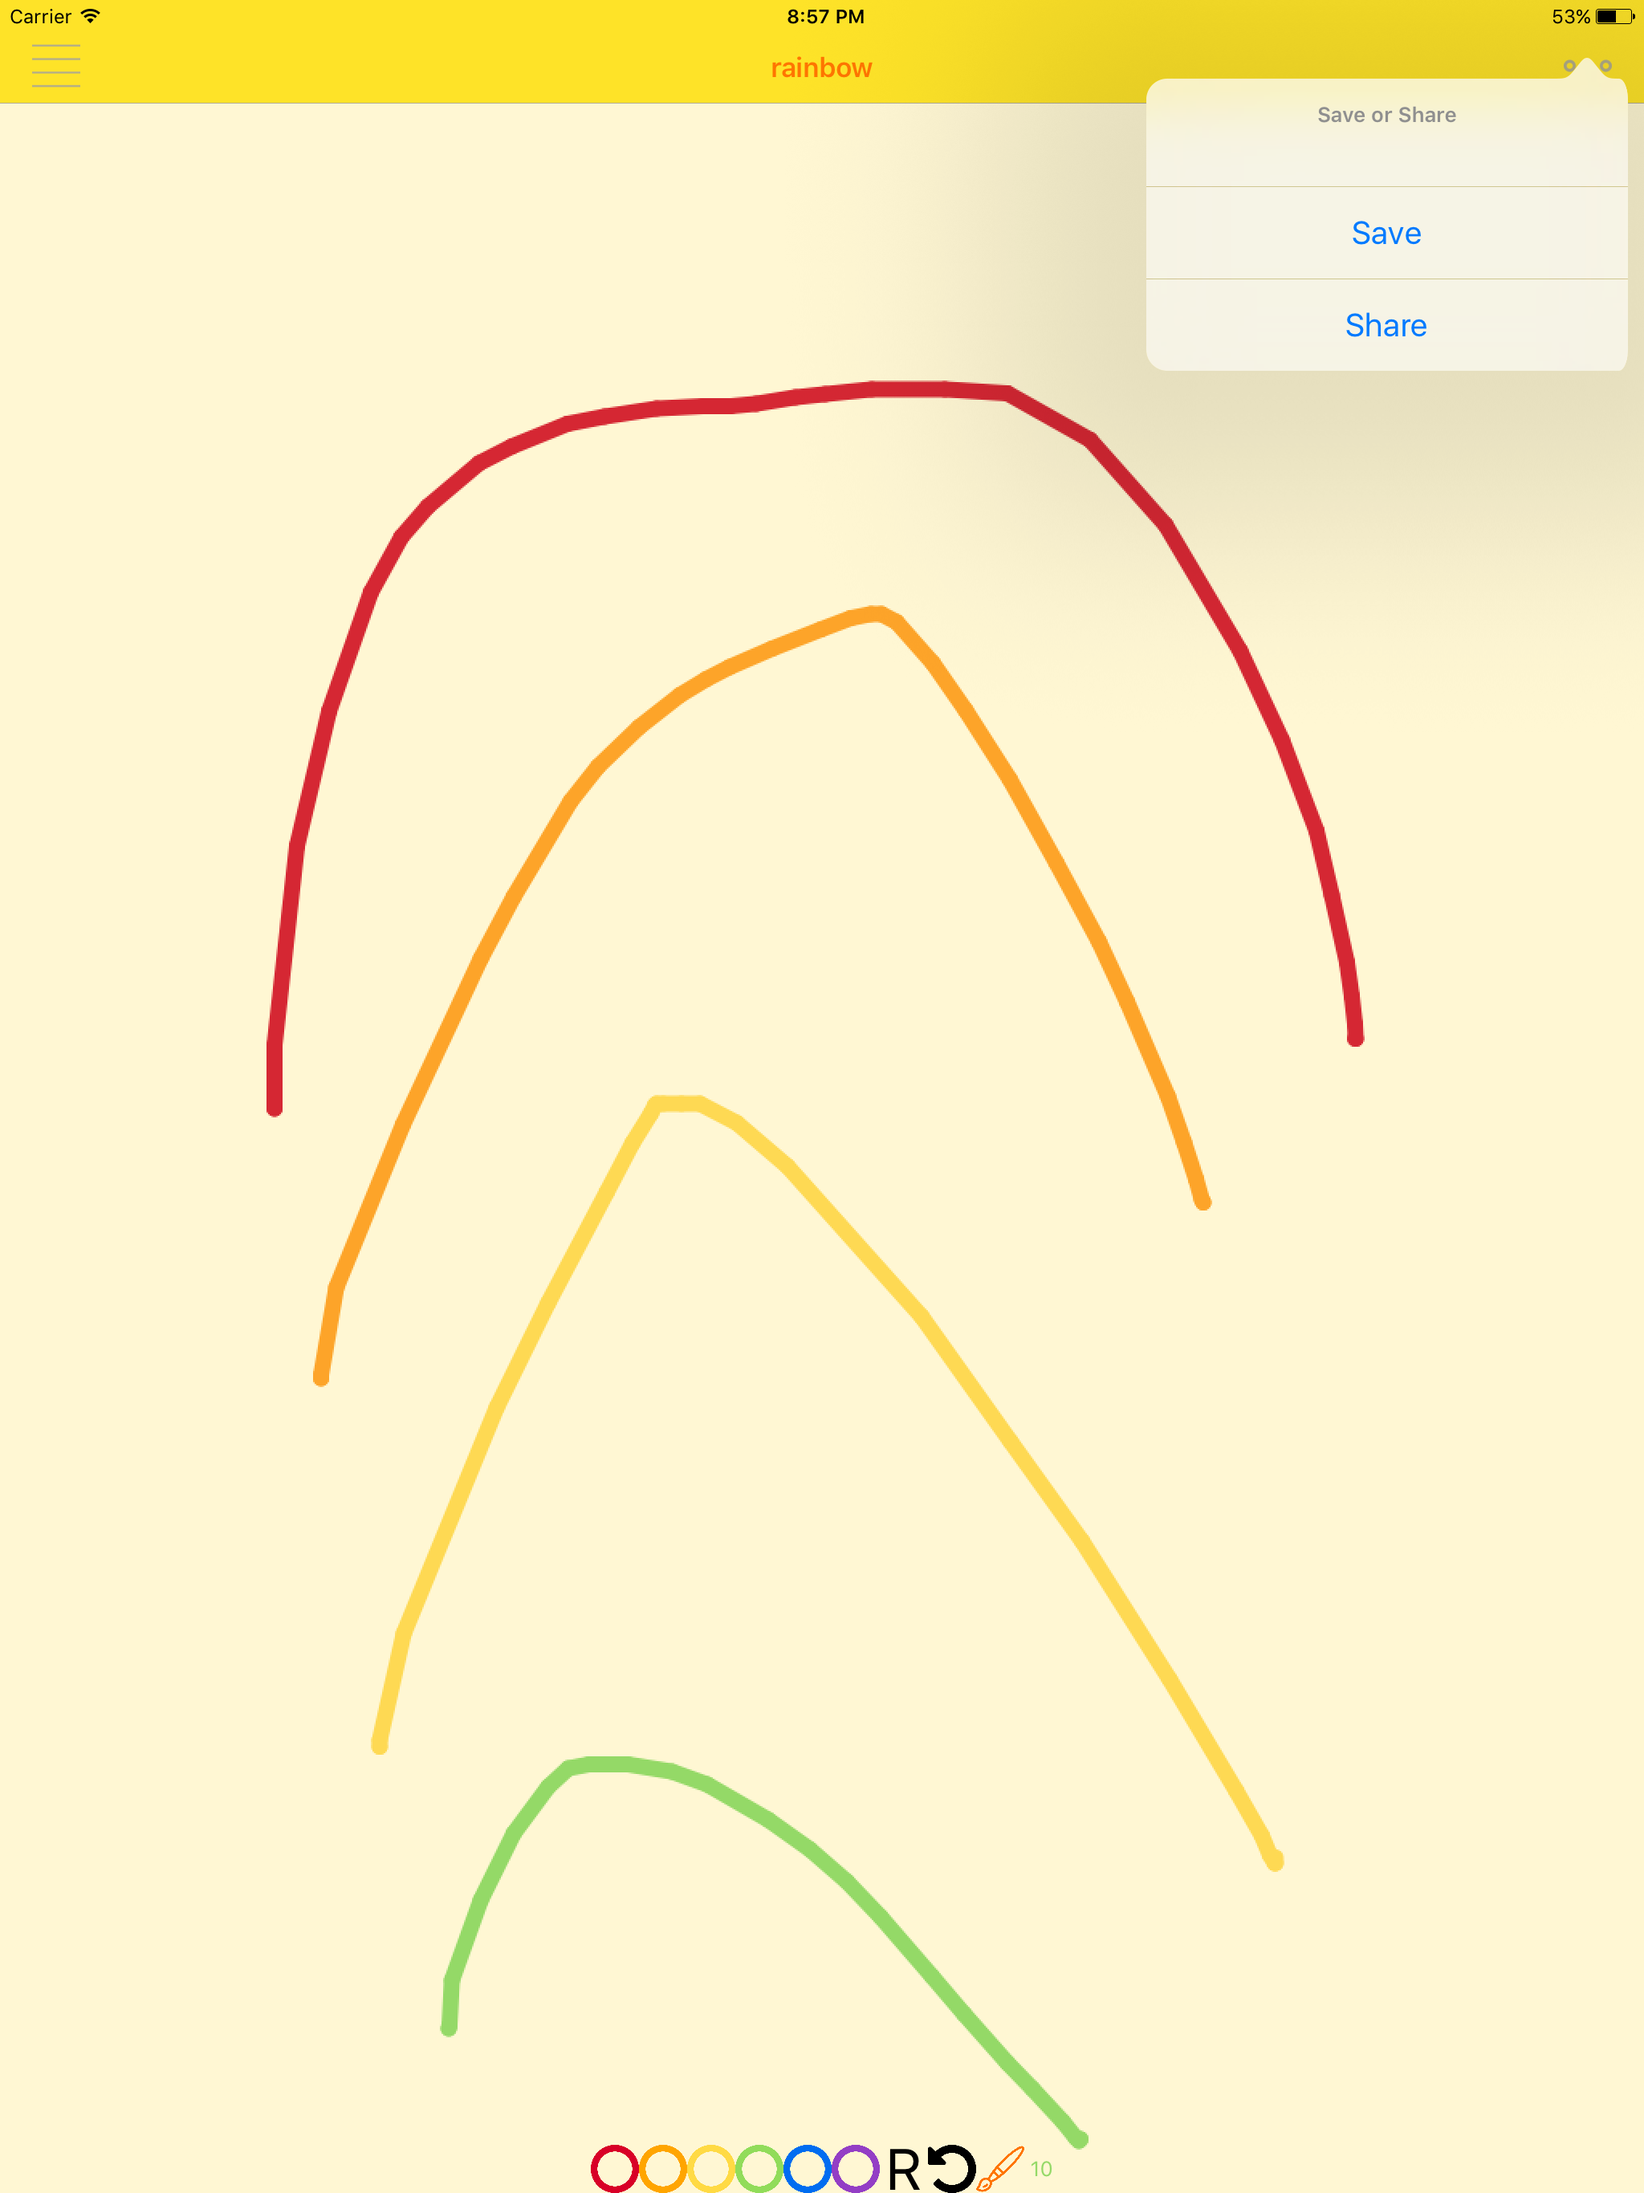
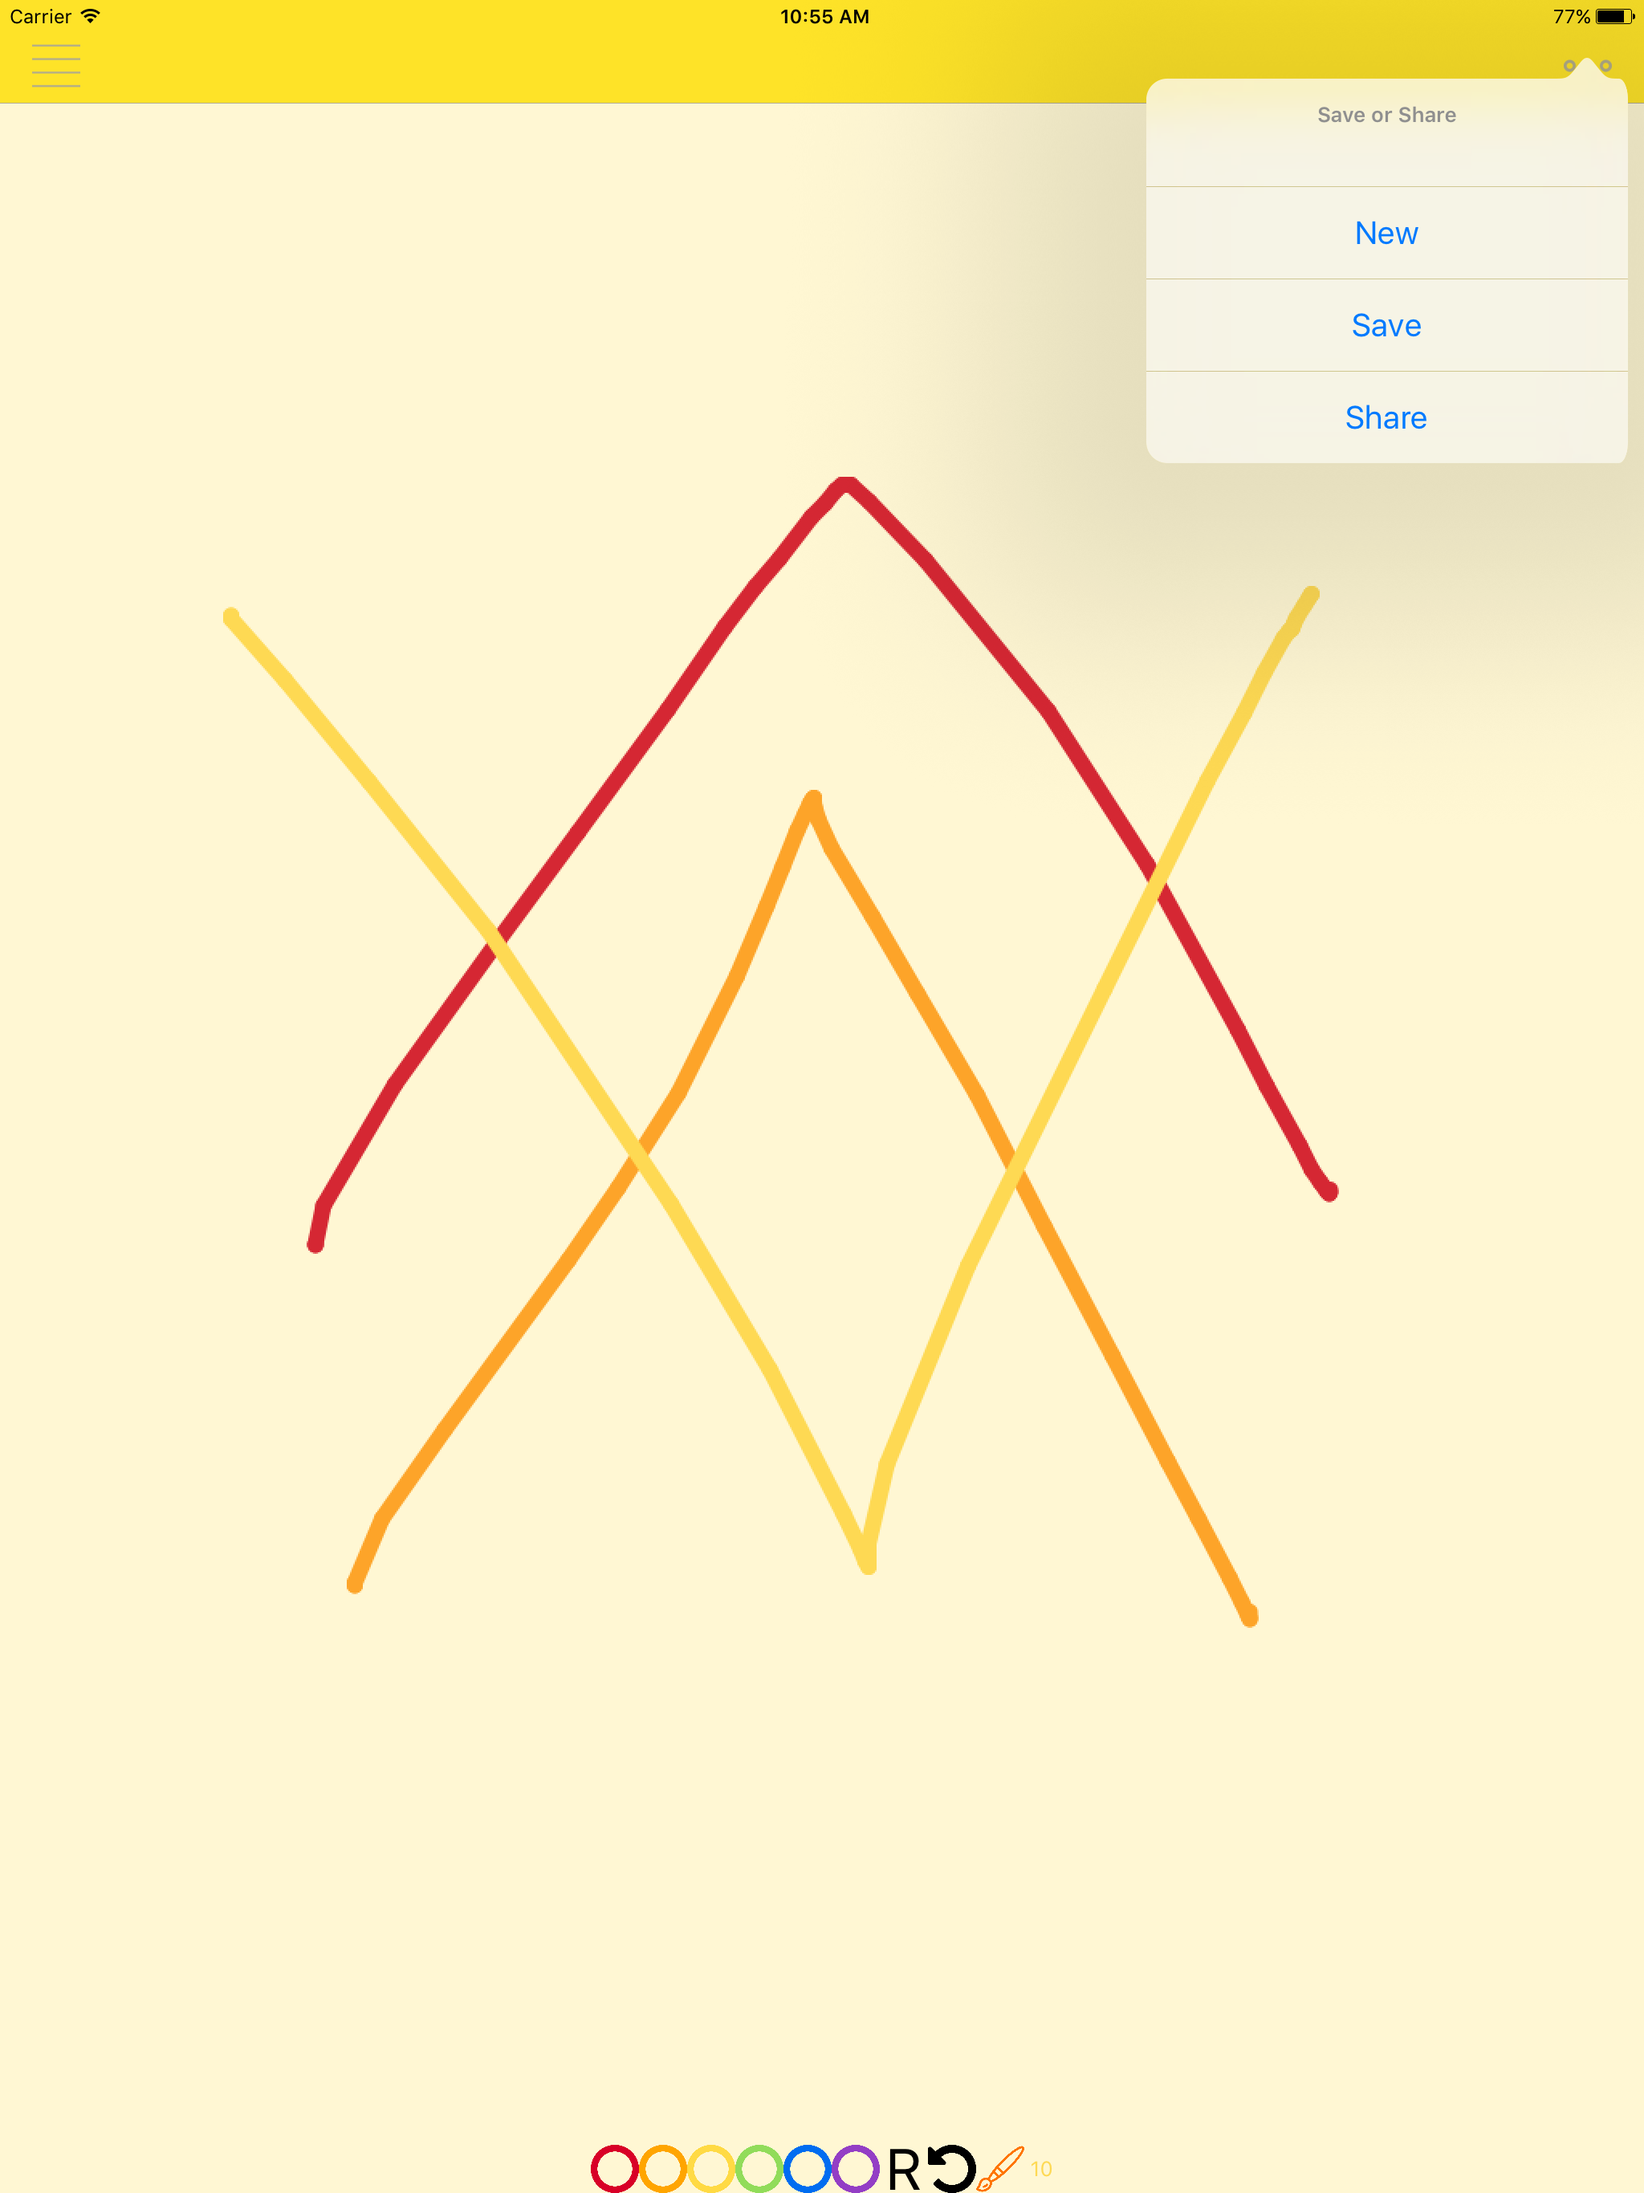
fix bugs of missing new button and white background of the masterpiece

diff --git a/Brush/DrawingViewController.swift b/Brush/DrawingViewController.swift
@@ -48,6 +48,7 @@ class DrawingViewController: UIViewController, GalleryViewControllerDelegate, Se
     override func viewDidLoad() {
         super.viewDidLoad()
         self.drawingImageView.backgroundColor = ColorScheme.PaleYellow
+        initializeImageContextBGColor()
     }
     
     override func viewWillAppear(_ animated: Bool) {
@@ -130,6 +131,11 @@ class DrawingViewController: UIViewController, GalleryViewControllerDelegate, Se
     @IBAction func moreTapped(_ sender: UIBarButtonItem) {
         let alertController = UIAlertController(title: "Save or Share", message: "", preferredStyle: .actionSheet)
         
+        let newAction = UIAlertAction(title: "New", style: .default, handler: { (alert) in
+            self.addNewMasterpiece()
+        })
+        alertController.addAction(newAction)
+        
         let saveAction = UIAlertAction(title: "Save", style: .default, handler: {(alert :UIAlertAction!) in
             self.saveMasterPiece()
         })
@@ -156,6 +162,9 @@ class DrawingViewController: UIViewController, GalleryViewControllerDelegate, Se
         if drawingImageView.image == nil {
             Utilities.sharedInstance.popAlertView(parentVC: self, title: "Empty Masterpiece", message: "It is not allowed to save an empty masterpiece")
             return
+        } else {
+            // initialize the bg color of the image before saving
+            self.drawingImageView.backgroundColor = ColorScheme.PaleYellow
         }
         
         if currentMasterPiece == nil {
@@ -218,6 +227,13 @@ class DrawingViewController: UIViewController, GalleryViewControllerDelegate, Se
         }
     }
     
+    func addNewMasterpiece() {
+        self.title = ""
+        self.drawingImageView.image = nil
+        self.currentMasterPiece = nil
+        initializeImageContextBGColor()
+    }
+    
     func drawALine(first: CGPoint, second: CGPoint) {
         
         UIGraphicsBeginImageContext(drawingImageView.bounds.size)
@@ -234,6 +250,15 @@ class DrawingViewController: UIViewController, GalleryViewControllerDelegate, Se
         
         UIGraphicsEndImageContext()
         
+    }
+    
+    func initializeImageContextBGColor() {
+        UIGraphicsBeginImageContext(drawingImageView.bounds.size)
+        let context = UIGraphicsGetCurrentContext()
+        context?.setFillColor(ColorScheme.PaleYellow.cgColor)
+        context?.fill(CGRect(origin: CGPoint(x: 0, y: 0), size: drawingImageView.bounds.size))
+        drawingImageView.image = UIGraphicsGetImageFromCurrentImageContext()
+        UIGraphicsEndImageContext()
     }
     
     func setStrokeColor(color: UIColor) {

diff --git a/Brush/GalleryViewController.swift b/Brush/GalleryViewController.swift
@@ -68,6 +68,8 @@ class GalleryViewController: UIViewController, UITableViewDelegate, UITableViewD
             cell.masterpieceImageView.image = UIImage(data: image as Data)
             cell.masterpieceImageView.layer.borderColor = ColorScheme.Orange.cgColor
             cell.masterpieceImageView.layer.borderWidth = 1.5
+            cell.masterpieceImageView.layer.cornerRadius = 5.0
+            cell.masterpieceImageView.backgroundColor = ColorScheme.PaleYellow
         }
         cell.masterpieceNameLabel.text = masterpiece.name
         return cell
